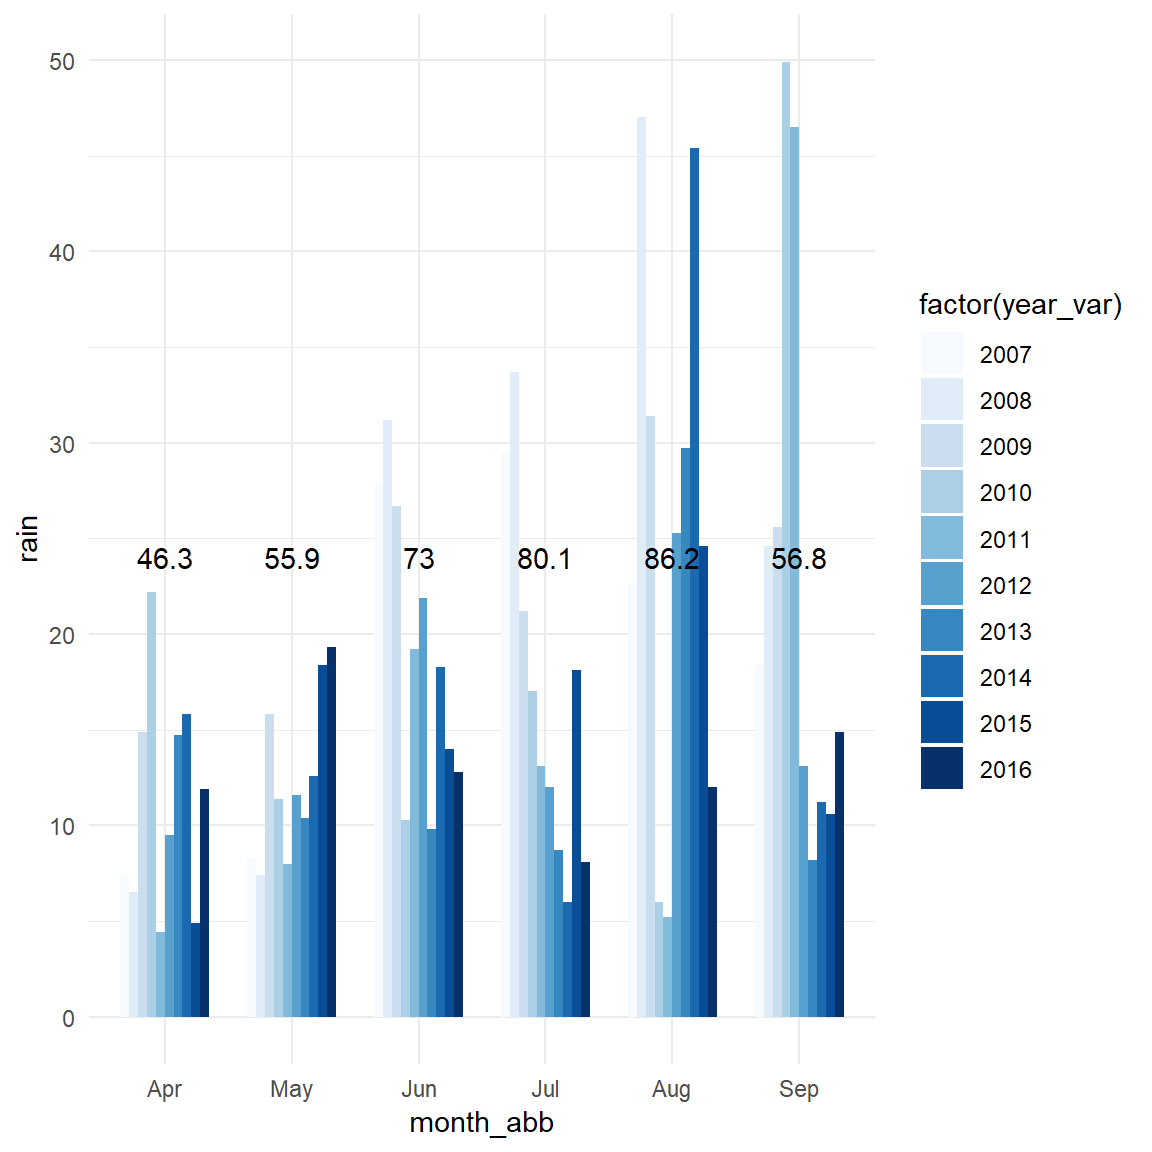
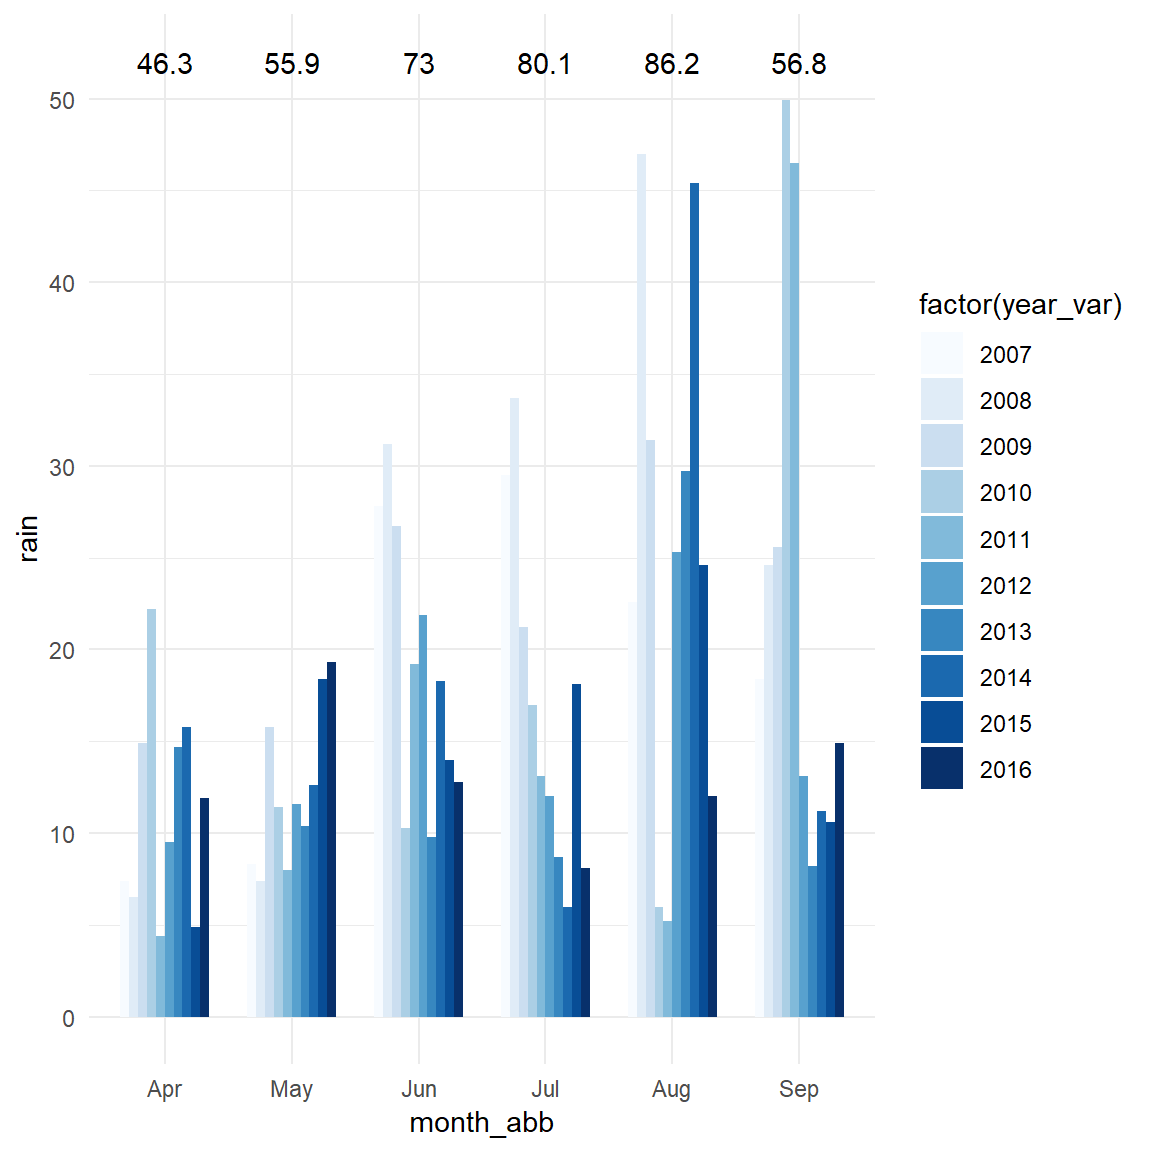
re-kniting 2

diff --git a/docs/data.html b/docs/data.html
@@ -536,8 +536,8 @@ leaflet() %&gt;%
              icon=greenLeafIcon
               # radius = 5
   )</code></pre>
-<div id="htmlwidget-808aebe39296903290f6" style="width:672px;height:480px;" class="leaflet html-widget"></div>
-<script type="application/json" data-for="htmlwidget-808aebe39296903290f6">{"x":{"options":{"crs":{"crsClass":"L.CRS.EPSG3857","code":null,"proj4def":null,"projectedBounds":null,"options":{}}},"calls":[{"method":"addTiles","args":["//{s}.tile.openstreetmap.org/{z}/{x}/{y}.png",null,"OSM (default)",{"minZoom":0,"maxZoom":18,"tileSize":256,"subdomains":"abc","errorTileUrl":"","tms":false,"noWrap":false,"zoomOffset":0,"zoomReverse":false,"opacity":1,"zIndex":1,"detectRetina":false,"attribution":"&copy; <a href=\"http://openstreetmap.org\">OpenStreetMap<\/a> contributors, <a href=\"http://creativecommons.org/licenses/by-sa/2.0/\">CC-BY-SA<\/a>"}]},{"method":"addMarkers","args":[52.8560667,-6.9121167,{"iconUrl":{"data":"http://leafletjs.com/examples/custom-icons/leaf-green.png","index":0},"iconWidth":38,"iconHeight":95,"iconAnchorX":22,"iconAnchorY":94,"shadowUrl":{"data":"http://leafletjs.com/examples/custom-icons/leaf-shadow.png","index":0},"shadowWidth":50,"shadowHeight":64,"shadowAnchorX":4,"shadowAnchorY":62},null,null,{"interactive":true,"draggable":false,"keyboard":true,"title":"","alt":"","zIndexOffset":0,"opacity":1,"riseOnHover":false,"riseOffset":250},null,null,null,null,"Oak Park",{"interactive":false,"permanent":false,"direction":"auto","opacity":1,"offset":[0,0],"textsize":"10px","textOnly":false,"className":"","sticky":true},null]}],"setView":[[53.5,-8],6,[]],"limits":{"lat":[52.8560667,52.8560667],"lng":[-6.9121167,-6.9121167]}},"evals":[],"jsHooks":[]}</script>
+<div id="htmlwidget-28e6e77f2bf24d475002" style="width:672px;height:480px;" class="leaflet html-widget"></div>
+<script type="application/json" data-for="htmlwidget-28e6e77f2bf24d475002">{"x":{"options":{"crs":{"crsClass":"L.CRS.EPSG3857","code":null,"proj4def":null,"projectedBounds":null,"options":{}}},"calls":[{"method":"addTiles","args":["//{s}.tile.openstreetmap.org/{z}/{x}/{y}.png",null,"OSM (default)",{"minZoom":0,"maxZoom":18,"tileSize":256,"subdomains":"abc","errorTileUrl":"","tms":false,"noWrap":false,"zoomOffset":0,"zoomReverse":false,"opacity":1,"zIndex":1,"detectRetina":false,"attribution":"&copy; <a href=\"http://openstreetmap.org\">OpenStreetMap<\/a> contributors, <a href=\"http://creativecommons.org/licenses/by-sa/2.0/\">CC-BY-SA<\/a>"}]},{"method":"addMarkers","args":[52.8560667,-6.9121167,{"iconUrl":{"data":"http://leafletjs.com/examples/custom-icons/leaf-green.png","index":0},"iconWidth":38,"iconHeight":95,"iconAnchorX":22,"iconAnchorY":94,"shadowUrl":{"data":"http://leafletjs.com/examples/custom-icons/leaf-shadow.png","index":0},"shadowWidth":50,"shadowHeight":64,"shadowAnchorX":4,"shadowAnchorY":62},null,null,{"interactive":true,"draggable":false,"keyboard":true,"title":"","alt":"","zIndexOffset":0,"opacity":1,"riseOnHover":false,"riseOffset":250},null,null,null,null,"Oak Park",{"interactive":false,"permanent":false,"direction":"auto","opacity":1,"offset":[0,0],"textsize":"10px","textOnly":false,"className":"","sticky":true},null]}],"setView":[[53.5,-8],6,[]],"limits":{"lat":[52.8560667,52.8560667],"lng":[-6.9121167,-6.9121167]}},"evals":[],"jsHooks":[]}</script>
 <p>Planting date and first observation of the disease are loaded.</p>
 <pre class="r"><code>#Get subsets of data for period before the epidemics were initiated
 dates_cut &lt;-
@@ -568,7 +568,7 @@ OP[1:5, 1:20] %&gt;% gt()</code></pre>
   font-family: -apple-system, BlinkMacSystemFont, 'Segoe UI', Roboto, Oxygen, Ubuntu, Cantarell, 'Helvetica Neue', 'Fira Sans', 'Droid Sans', Arial, sans-serif;
 }
 
-#akldswqsqw .gt_table {
+#ighlsnhqct .gt_table {
   display: table;
   border-collapse: collapse;
   margin-left: auto;
@@ -587,13 +587,13 @@ OP[1:5, 1:20] %&gt;% gt()</code></pre>
   /* table.border.top.color */
 }
 
-#akldswqsqw .gt_heading {
+#ighlsnhqct .gt_heading {
   background-color: #FFFFFF;
   /* heading.background.color */
   border-bottom-color: #FFFFFF;
 }
 
-#akldswqsqw .gt_title {
+#ighlsnhqct .gt_title {
   color: #000000;
   font-size: 125%;
   /* heading.title.font.size */
@@ -604,7 +604,7 @@ OP[1:5, 1:20] %&gt;% gt()</code></pre>
   border-bottom-width: 0;
 }
 
-#akldswqsqw .gt_subtitle {
+#ighlsnhqct .gt_subtitle {
   color: #000000;
   font-size: 85%;
   /* heading.subtitle.font.size */
@@ -615,7 +615,7 @@ OP[1:5, 1:20] %&gt;% gt()</code></pre>
   border-top-width: 0;
 }
 
-#akldswqsqw .gt_bottom_border {
+#ighlsnhqct .gt_bottom_border {
   border-bottom-style: solid;
   /* heading.border.bottom.style */
   border-bottom-width: 2px;
@@ -624,7 +624,7 @@ OP[1:5, 1:20] %&gt;% gt()</code></pre>
   /* heading.border.bottom.color */
 }
 
-#akldswqsqw .gt_column_spanner {
+#ighlsnhqct .gt_column_spanner {
   border-bottom-style: solid;
   border-bottom-width: 2px;
   border-bottom-color: #A8A8A8;
@@ -632,7 +632,7 @@ OP[1:5, 1:20] %&gt;% gt()</code></pre>
   padding-bottom: 4px;
 }
 
-#akldswqsqw .gt_col_heading {
+#ighlsnhqct .gt_col_heading {
   color: #000000;
   background-color: #FFFFFF;
   /* column_labels.background.color */
@@ -645,11 +645,11 @@ OP[1:5, 1:20] %&gt;% gt()</code></pre>
   margin: 10px;
 }
 
-#akldswqsqw .gt_sep_right {
+#ighlsnhqct .gt_sep_right {
   border-right: 5px solid #FFFFFF;
 }
 
-#akldswqsqw .gt_group_heading {
+#ighlsnhqct .gt_group_heading {
   padding: 8px;
   color: #000000;
   background-color: #FFFFFF;
@@ -673,7 +673,7 @@ OP[1:5, 1:20] %&gt;% gt()</code></pre>
   vertical-align: middle;
 }
 
-#akldswqsqw .gt_empty_group_heading {
+#ighlsnhqct .gt_empty_group_heading {
   padding: 0.5px;
   color: #000000;
   background-color: #FFFFFF;
@@ -697,29 +697,29 @@ OP[1:5, 1:20] %&gt;% gt()</code></pre>
   vertical-align: middle;
 }
 
-#akldswqsqw .gt_striped {
+#ighlsnhqct .gt_striped {
   background-color: #f2f2f2;
 }
 
-#akldswqsqw .gt_row {
+#ighlsnhqct .gt_row {
   padding: 10px;
   /* row.padding */
   margin: 10px;
   vertical-align: middle;
 }
 
-#akldswqsqw .gt_stub {
+#ighlsnhqct .gt_stub {
   border-right-style: solid;
   border-right-width: 2px;
   border-right-color: #A8A8A8;
   padding-left: 12px;
 }
 
-#akldswqsqw .gt_stub.gt_row {
+#ighlsnhqct .gt_stub.gt_row {
   background-color: #FFFFFF;
 }
 
-#akldswqsqw .gt_summary_row {
+#ighlsnhqct .gt_summary_row {
   background-color: #FFFFFF;
   /* summary_row.background.color */
   padding: 6px;
@@ -728,13 +728,13 @@ OP[1:5, 1:20] %&gt;% gt()</code></pre>
   /* summary_row.text_transform */
 }
 
-#akldswqsqw .gt_first_summary_row {
+#ighlsnhqct .gt_first_summary_row {
   border-top-style: solid;
   border-top-width: 2px;
   border-top-color: #A8A8A8;
 }
 
-#akldswqsqw .gt_table_body {
+#ighlsnhqct .gt_table_body {
   border-top-style: solid;
   /* field.border.top.style */
   border-top-width: 2px;
@@ -749,55 +749,55 @@ OP[1:5, 1:20] %&gt;% gt()</code></pre>
   /* field.border.bottom.color */
 }
 
-#akldswqsqw .gt_footnote {
+#ighlsnhqct .gt_footnote {
   font-size: 90%;
   /* footnote.font.size */
   padding: 4px;
   /* footnote.padding */
 }
 
-#akldswqsqw .gt_sourcenote {
+#ighlsnhqct .gt_sourcenote {
   font-size: 90%;
   /* sourcenote.font.size */
   padding: 4px;
   /* sourcenote.padding */
 }
 
-#akldswqsqw .gt_center {
+#ighlsnhqct .gt_center {
   text-align: center;
 }
 
-#akldswqsqw .gt_left {
+#ighlsnhqct .gt_left {
   text-align: left;
 }
 
-#akldswqsqw .gt_right {
+#ighlsnhqct .gt_right {
   text-align: right;
   font-variant-numeric: tabular-nums;
 }
 
-#akldswqsqw .gt_font_normal {
+#ighlsnhqct .gt_font_normal {
   font-weight: normal;
 }
 
-#akldswqsqw .gt_font_bold {
+#ighlsnhqct .gt_font_bold {
   font-weight: bold;
 }
 
-#akldswqsqw .gt_font_italic {
+#ighlsnhqct .gt_font_italic {
   font-style: italic;
 }
 
-#akldswqsqw .gt_super {
+#ighlsnhqct .gt_super {
   font-size: 65%;
 }
 
-#akldswqsqw .gt_footnote_glyph {
+#ighlsnhqct .gt_footnote_glyph {
   font-style: italic;
   font-size: 65%;
 }
 </style>
-<div id="akldswqsqw" style="overflow-x:auto;"><!--gt table start-->
+<div id="ighlsnhqct" style="overflow-x:auto;"><!--gt table start-->
 <table class='gt_table'>
 <tr>
 <th class='gt_col_heading gt_left' rowspan='1' colspan='1'>date</th>
@@ -1316,7 +1316,7 @@ OP %&gt;%
 ggplot(aes(month_abb,rain,fill = factor(year_var)))+
   geom_bar( position=&quot;dodge&quot;, stat=&quot;identity&quot;, width = 0.7)+
   scale_fill_manual(values = colorRampPalette(brewer.pal(10, &quot;Blues&quot;))(10))+
-  annotate(&quot;text&quot;,x = 1:6, y = 24, 
+  annotate(&quot;text&quot;,x = 1:6, y = 52, 
           label=as.character(OP_months$rain))+
   theme_minimal()</code></pre>
 <pre><code>## Warning in brewer.pal(10, &quot;Blues&quot;): n too large, allowed maximum for palette Blues is 9

diff --git a/docs/FungicideTreatments.html b/docs/FungicideTreatments.html
@@ -501,8 +501,10 @@ if (any(as.numeric(packages_load) == 0)) {
 }</code></pre>
 <pre><code>## [1] &quot;All packages were successfully loaded.&quot;</code></pre>
 <pre class="r"><code>rm(list.of.packages, new.packages, packages_load)</code></pre>
-<p>#The Rationale<br />
-The crop risk prediction model is useful only if it provides same level of protection as the standard practice, while reducing necessary costs and labor. It was evident that the Irish Rules with their default variable thresholds were to conservative and failed to prove as sustainable solution for the disease forecasting.<br />
+</div>
+<div id="the-rationale" class="section level1">
+<h1>The Rationale</h1>
+<p>The crop risk prediction model is useful only if it provides same level of protection as the standard practice, while reducing necessary costs and labor. It was evident that the Irish Rules with their default variable thresholds were to conservative and failed to prove as sustainable solution for the disease forecasting.<br />
 Two alternative model parametrisations are proposed and in this section we will implement a theoretical study to evaluate the usefulness with regard to their their potential to save fungicide applications. The performance is evaluated in two ways, as a reduction of: 1. Number of treatments: + With minimum window of 5 days between treatments + With minimum of 5 and maximum of 10 days between treatments 2. Dose reduction based on 7 day calendar treatment</p>
 </div>
 <div id="cut-off-dates" class="section level1">
@@ -868,7 +870,7 @@ clusterEvalQ(cl, library(&quot;tidyverse&quot;, quietly = TRUE, verbose = FALSE)
   cl = cl
   )
 begin- Sys.time() #check the duration of the pcontrol_evaless in the console</code></pre>
-<pre><code>## Time difference of -9.071752 secs</code></pre>
+<pre><code>## Time difference of -6.456741 secs</code></pre>
 <pre class="r"><code>stopCluster(cl)</code></pre>
 <p>Melt the data frame.</p>
 <pre class="r"><code>control_eval_long &lt;- 
@@ -1030,8 +1032,10 @@ ggplot(., aes(factor(warning_thres), no_of_treatments, group =programme, colour 
         text = element_text( size = 11))</code></pre>
 <p><img src="images/plot_years-1.png" width="1056" style="display: block; margin: auto;" /></p>
 <p>It is evident that setting a threshold to even a minimum accumulation of risk, in other words a single effective blight hour, is triggering less treatments in certain years.</p>
-<p>#Dose reduction for calendar treatment<br />
-Possible dose reductions are calculated for the usual 7 day calendar treatment.<br />
+</div>
+<div id="dose-reduction-for-calendar-treatment" class="section level1">
+<h1>Dose reduction for calendar treatment</h1>
+<p>Possible dose reductions are calculated for the usual 7 day calendar treatment.<br />
 Calculate the dose reductions based on the model outputs. Dose is reduced to quarters based on the risk output. The maximum dose is applied if the risk is over 12EBH.</p>
 <pre class="r"><code>test.overlap = function(vals, start_date, end_date) {
   rowSums(mapply(function(a, b)
